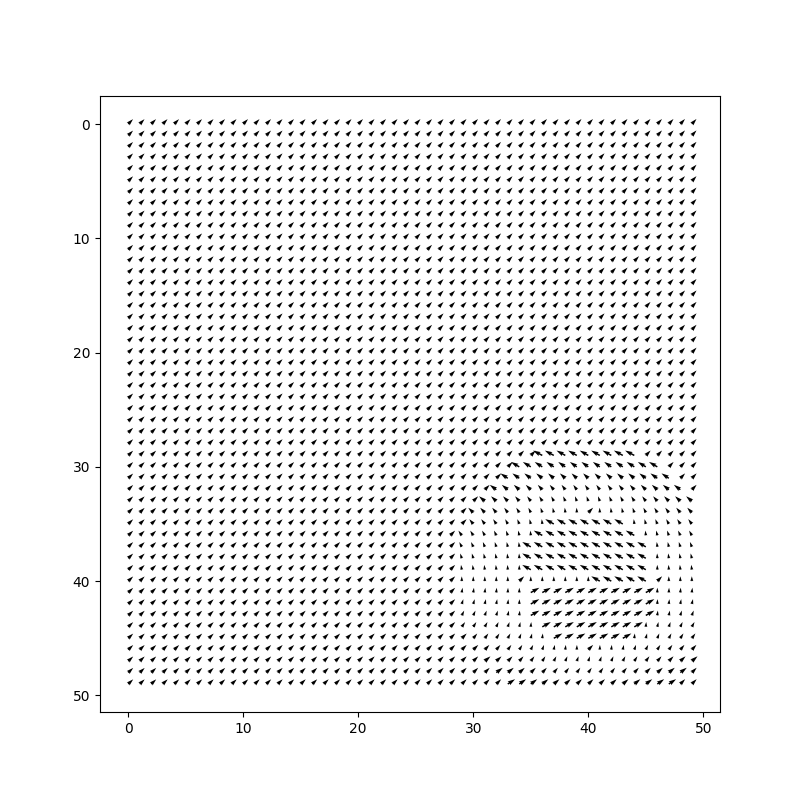
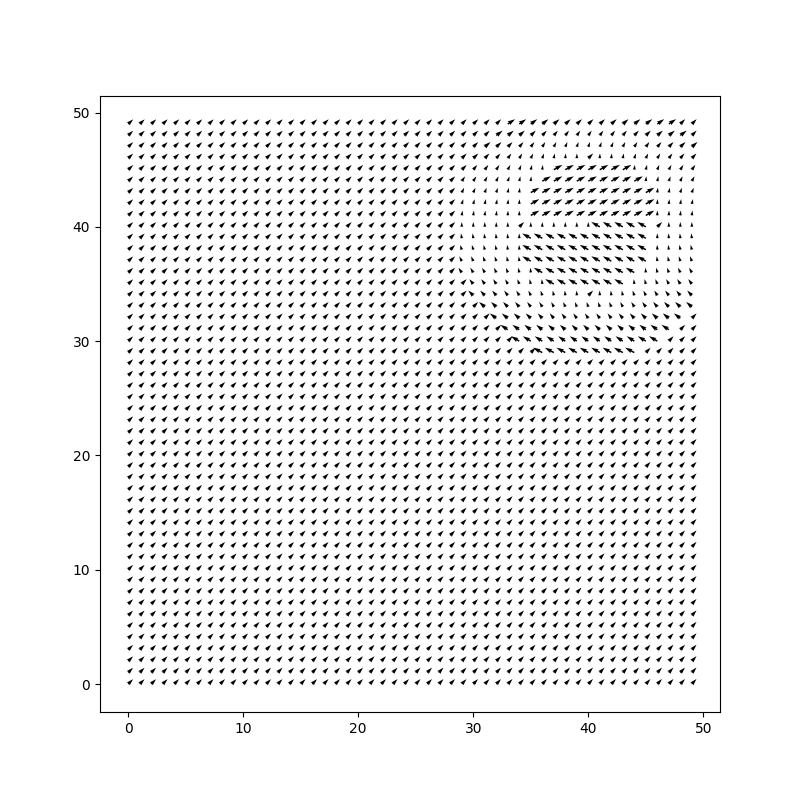
Fixed direction of vector field motion

diff --git a/benchmarks/benchmark_from_vectorfield.py b/benchmarks/benchmark_from_vectorfield.py
@@ -94,7 +94,7 @@ def main():
       # Shift cell values based on vector field
       for row in range(rows):
         for col in range(cols):
-          row_old = int(row - field_y[row, col])
+          row_old = int(row + field_y[row, col])
           col_old = int(col - field_x[row, col])
           if row_old >= 0 and row_old < rows and col_old >= 0 and col_old < cols:
             rasters_ts[sample_idx, row, col, timestep] = \

diff --git a/utils/plot_vectorfield.py b/utils/plot_vectorfield.py
@@ -92,7 +92,6 @@ def main():
   else: 
     print("Expected shape of either (2, rows, cols) or (3, rows, cols, bands).\nExiting...")
     exit(-1)
-    
 
   if output_file is None:
     plt.show()
